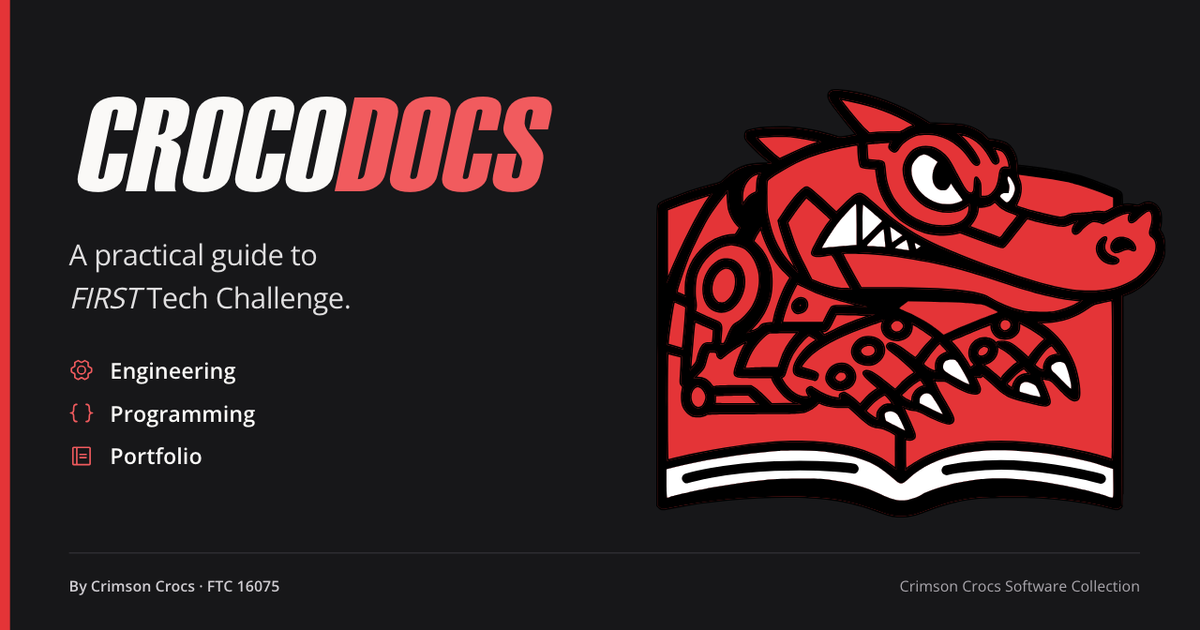
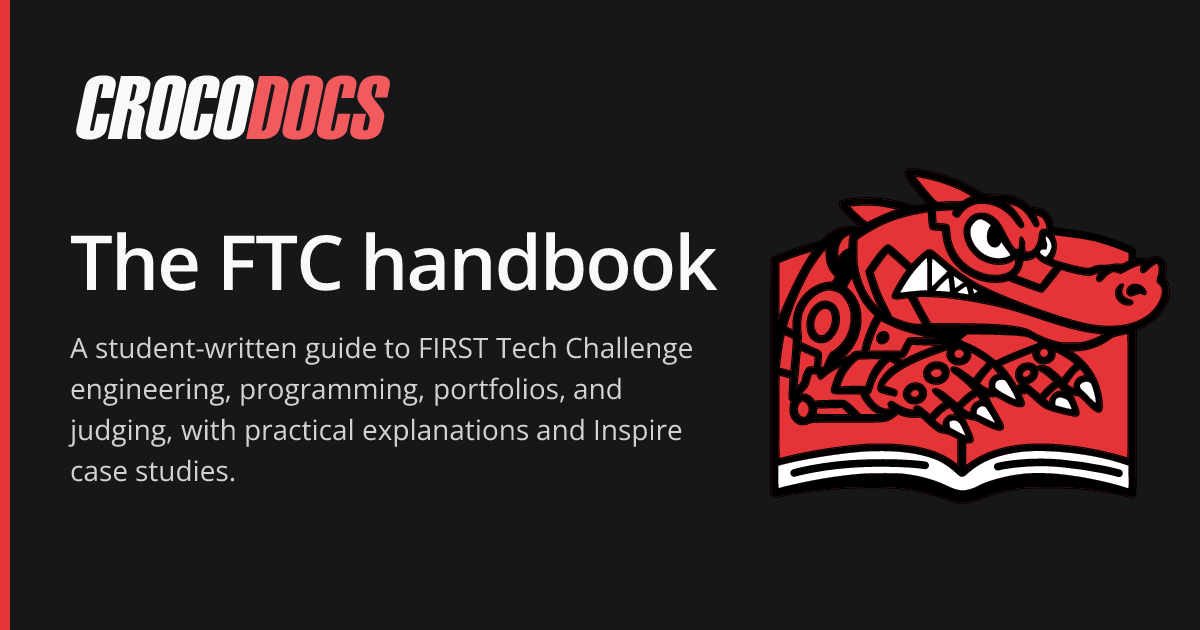
chore(social): refresh the fallback card and source notes

diff --git a/docs/audits/social-preview.md b/docs/audits/social-preview.md
@@ -1,4 +1,16 @@
-# Social preview verification
+# Social cards — 3 November 2026
+
+Focused Intentional Verify: **ACCEPT** for the simplified, page-specific cards.
+
+- One Next.js ImageResponse renderer produces 1200×630 PNGs. Keep the original croc, slanted Haettenschweiler wordmark, charcoal background, and crimson accent. Remove the section list and entire bottom footer.
+- The homepage and each article point Open Graph and Twitter to `/api/og`, using the canonical page path and a fingerprint of the share title/description. The endpoint looks up the actual document title and description; it does not accept arbitrary image copy. Unknown pages return 404.
+- Preview `dpl_AV9y6ruPicCdNS4krFgSZ2kkqmYq`, commit `50dd862`, passes the production build, type checks, and lint. Four actual cards were downloaded and visually inspected: homepage, Plan your mechanism, the longest article title, and the longest article description. All render distinct 1200×630 PNGs with complete readable text and no overlap or footer. Both share tags point to the correct page image.
+- Cards weigh approximately 96–105 KB in the checked samples. Fonts and artwork are local to the server-side renderer; no external rendering service or new dependency was added. Existing browser font loading and page UI are unchanged. Static `public/social/crocodocs.png` is refreshed from the rendered homepage card for old image links.
+- Evidence: ignored `.agents/work/social-cards/preview/` contains the four PNGs and metadata checks. The Vercel preview is protected; downloads used its existing authorized temporary share access, without changing project protection or storing access values in the repository.
+
+No social-network cache refresh is claimed. New metadata image URLs include a content fingerprint; external platforms choose when they re-fetch an already shared URL. The original static-card verification below is retained as history and describes the earlier implementation.
+
+# Original static-card verification (historical)
 
 **ACCEPT** for the social card and disabled-playground release changes.
 

diff --git a/public/social/README.md b/public/social/README.md
@@ -1,7 +1,9 @@
 # Social preview
 
-`crocodocs.png` is the 1200×630 Open Graph and Twitter card for CrocoDocs. The artwork uses the existing CrocoDocs mascot, supplied Haettenschweiler font, Open Sans, and the project's Phosphor icons. It contains no generated robot or invented product screenshot.
+CrocoDocs generates 1200×630 Open Graph and Twitter cards with the existing mascot, slanted Haettenschweiler wordmark, and Open Sans. The composition has a page title and description, with no section list or bottom footer.
 
-The editable composition is `scripts/social-preview.html`. Serve the repository root locally, open that file at a 1200×630 viewport, wait for local fonts and the mascot to load, and export a PNG at that size. The checked-in image was rendered at DPR 2 and reduced to 1200×630. No extra browser or image package is needed by the deployed site.
+The shared renderer is `src/lib/social-image.tsx`, using Next.js ImageResponse. `/api/og?path=/docs/design/design-brief` looks up that article's title and description in the documentation source. `/api/og` renders the homepage card. Unknown pages return 404. Font and artwork files are read locally; rendering needs no external service or additional dependency.
 
-Metadata lives in `src/lib/social-metadata.ts`. Both the homepage and individual articles use this image; articles supply their own title, description, and canonical URL under `https://crocodocs.crimsoncrocs.org`.
+Metadata lives in `src/lib/social-metadata.ts`. Its image URL includes the canonical page path and a content fingerprint, so changing the page title or description produces a new share-image URL. Bump the renderer version prefix there after changing the composition. Open Graph and Twitter use the same image.
+
+`crocodocs.png` is retained as a static homepage fallback for existing image links. Refresh it from the deployed `/api/og` endpoint after changing the shared renderer. Font provenance and licenses are recorded in `public/fonts/README.md`.
